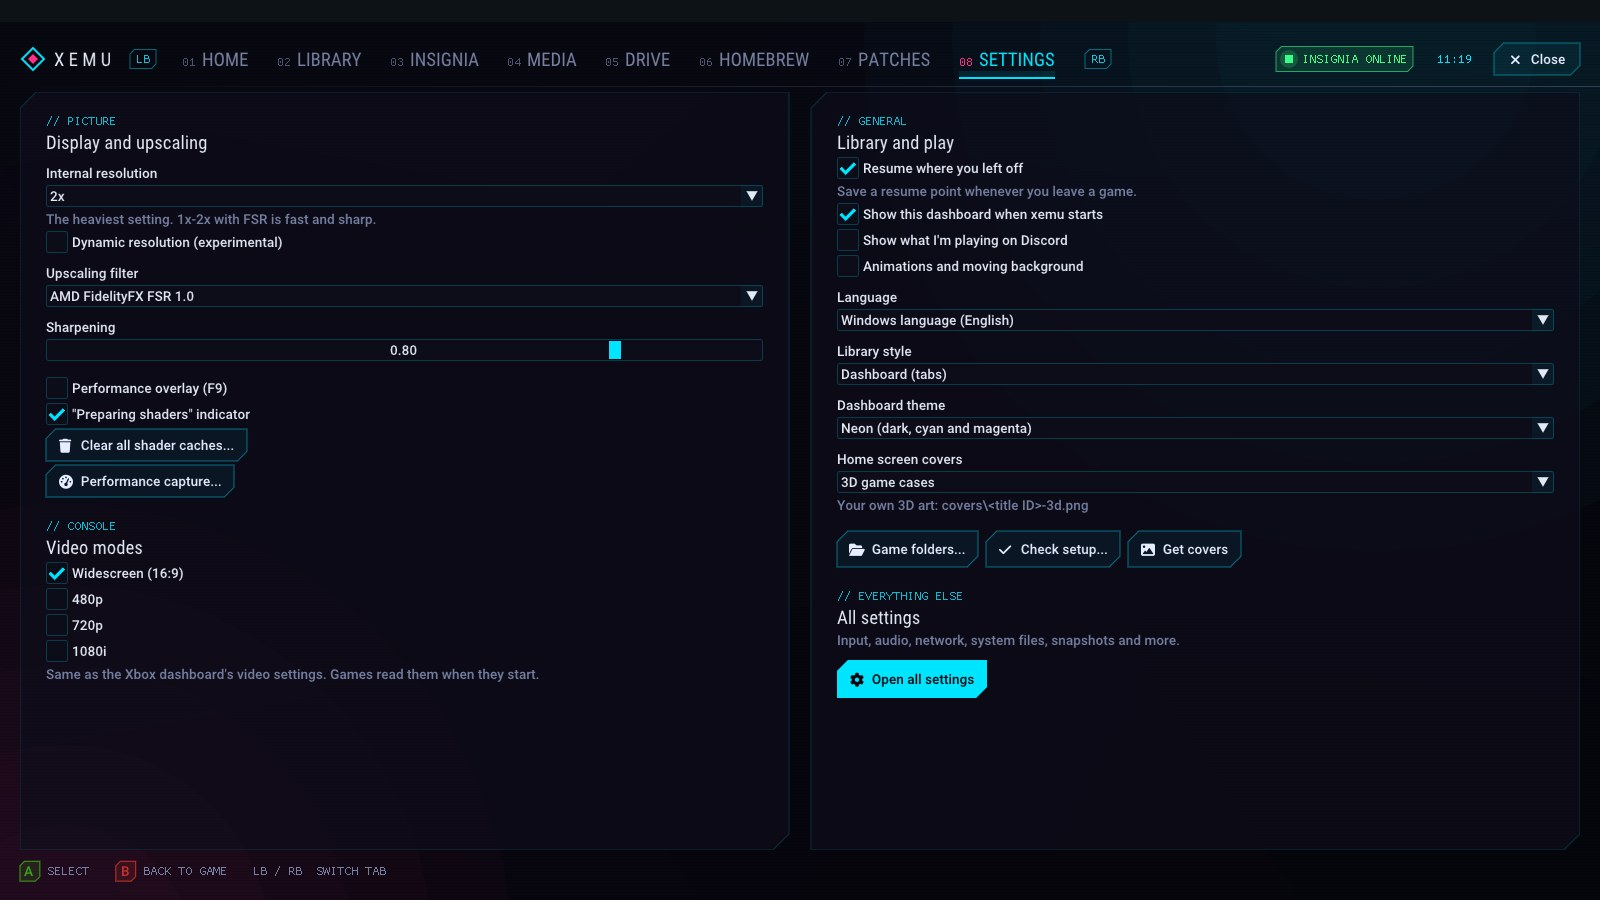
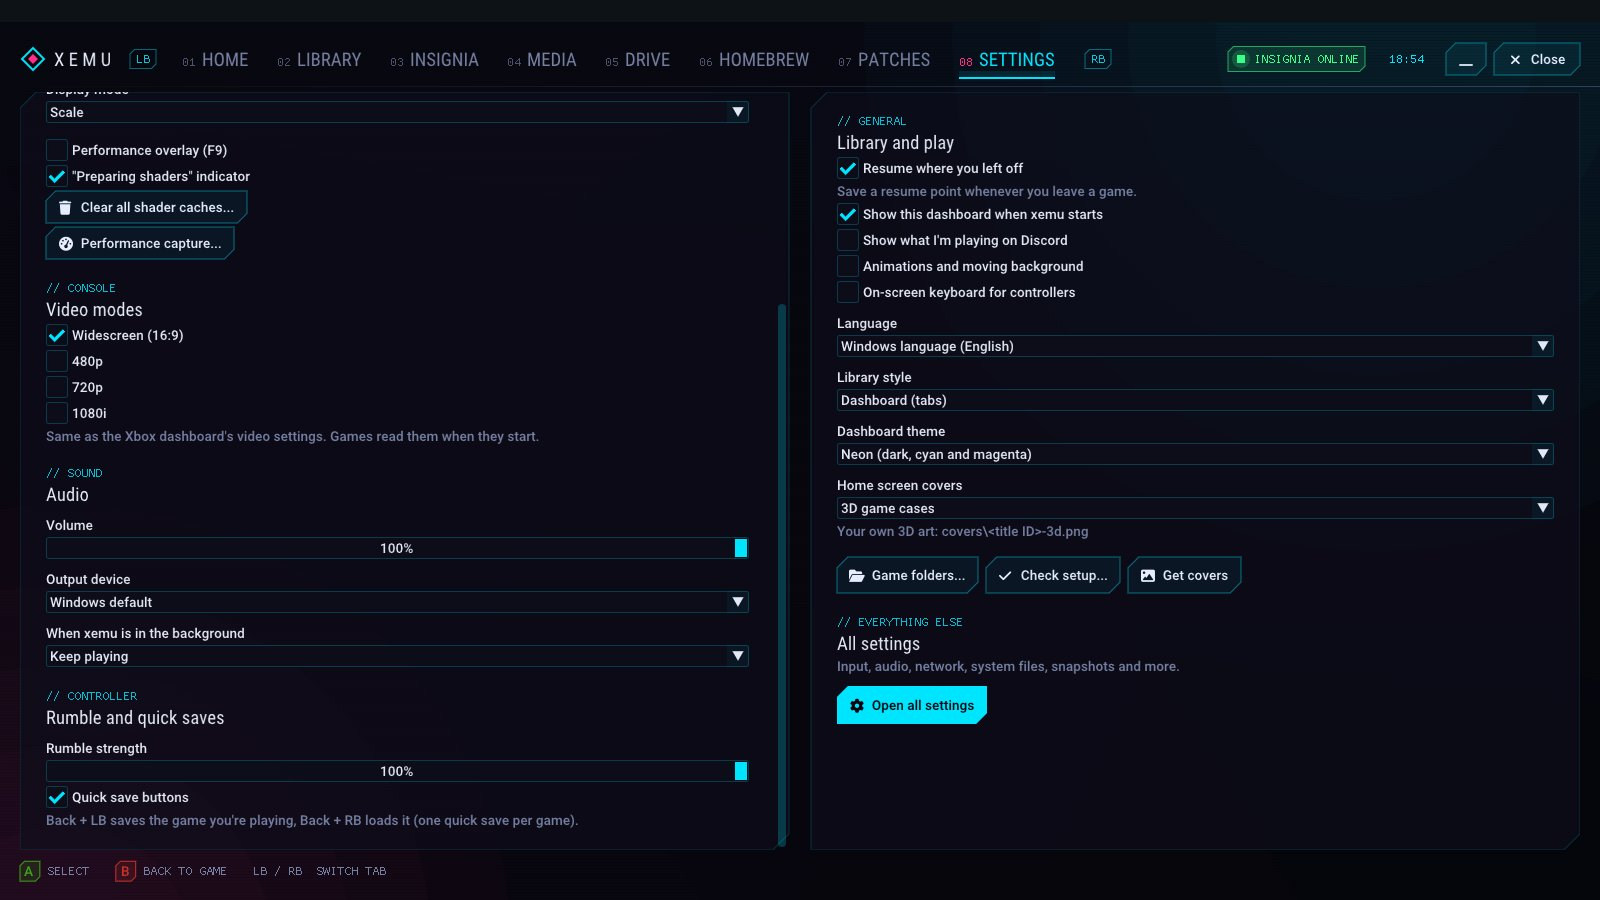
README: v2.0 screenshots and intro
New Library (60 FPS badges), Settings (Sound and Controller sections)
and Insignia (account walkthrough) screenshots, plus 60 FPS games and
Game saves in the gallery. The intro mentions 60 FPS, CRT filters,
quick saves and save backups.

Claude-Session: https://claude.ai/code/session_019Gr5W4qmmyCDZGv1HdNHkG

diff --git a/README.md b/README.md
@@ -17,7 +17,8 @@
 This fork is based on xemu 0.8.139. Emulation is unchanged except where noted
 under Performance and stability; the work here is on the interface: a
 console-style dashboard in 11 languages that works fully with a controller
-(on-screen keyboard included), a homebrew tab and store, upscaling options,
+(on-screen keyboard and quick saves included), one-click 60 FPS patches,
+upscaling and CRT TV filters, a homebrew tab and store, game save backups,
 tools for finding out why a game is slow, a guided Insignia setup, and
 quality-of-life features.
 
@@ -37,6 +38,10 @@ quality-of-life features.
 | On-screen keyboard | Performance Capture | Settings | Setup check |
 |---|---|---|---|
 | ![On-screen keyboard](docs/screenshots/keyboard.jpg) | ![Performance Capture](docs/screenshots/perf-capture.jpg) | ![Settings](docs/screenshots/settings.jpg) | ![Setup check](docs/screenshots/setup.jpg) |
+
+| 60 FPS games | Game saves |
+|---|---|
+| ![60 FPS games](docs/screenshots/sixty-fps.jpg) | ![Game saves](docs/screenshots/game-saves.jpg) |
 
 | Deutsch | 日本語 | Русский |
 |---|---|---|
